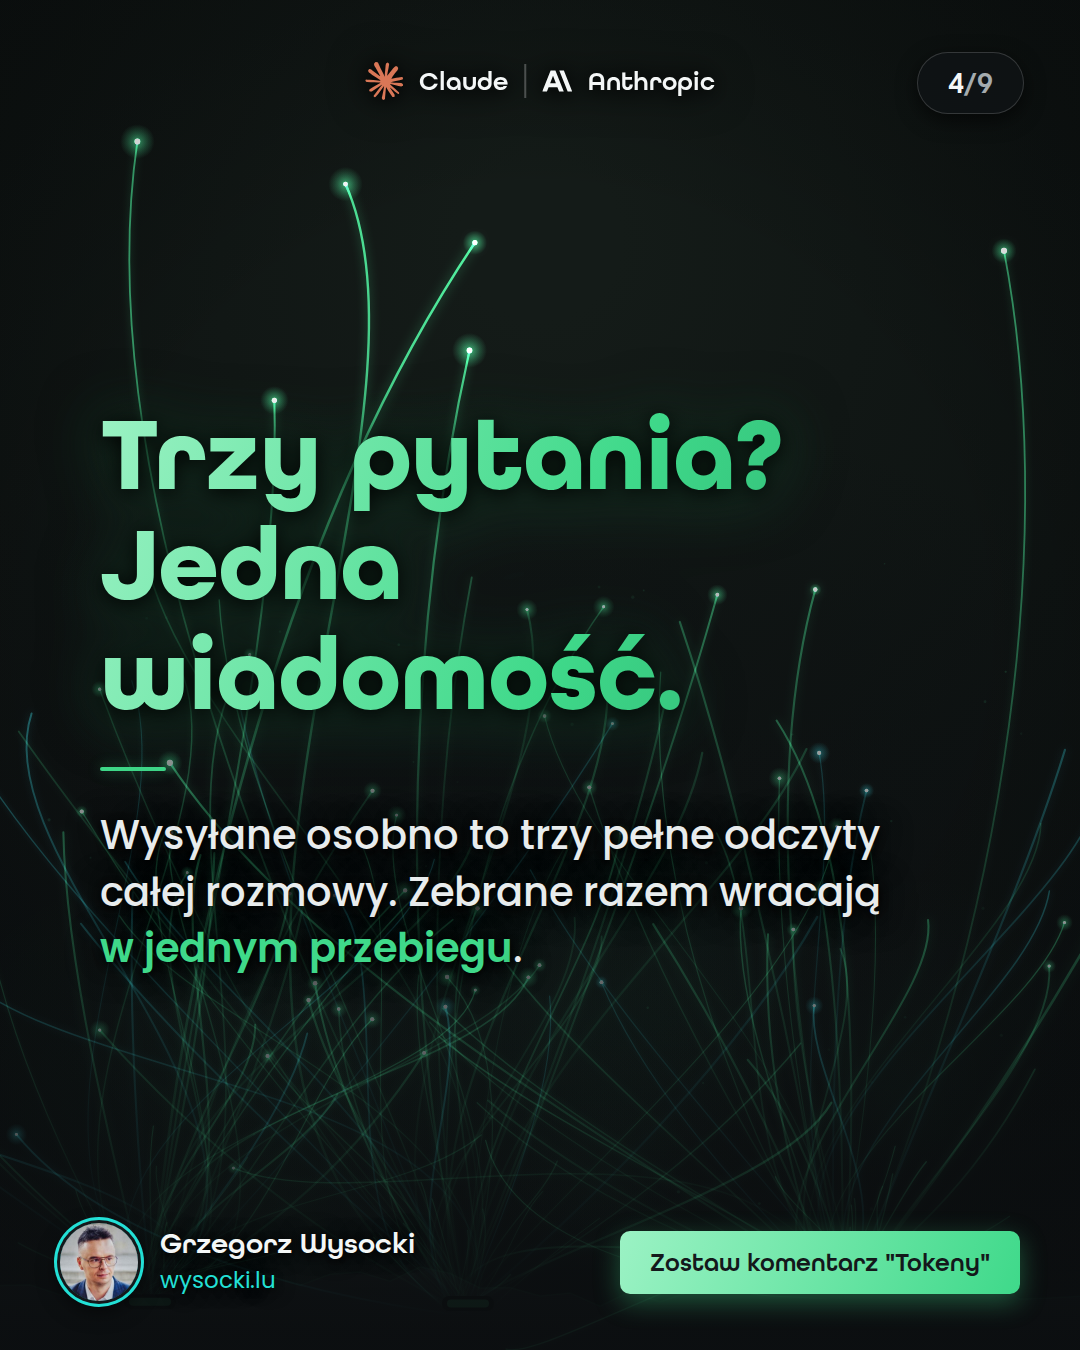
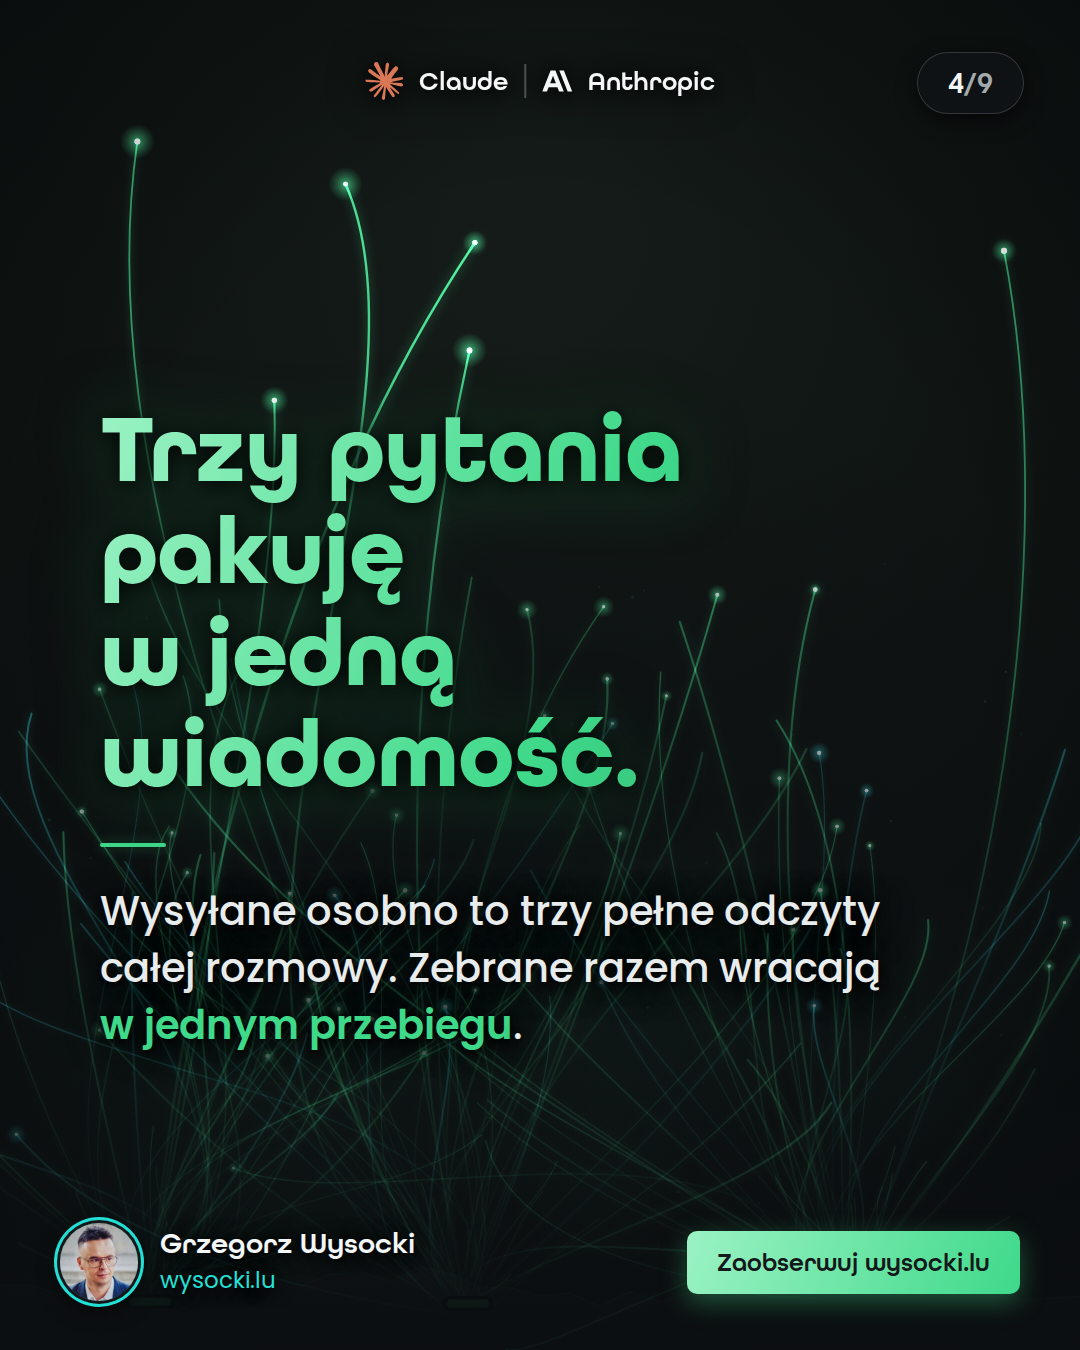
tmp: copy w pierwszej osobie, CTA zaobserwuj
Claude-Session: https://claude.ai/code/session_01VLdxJwrEUDSQYqUjMPfjQ4

Changed region(s): [[0.0917, 0.3111, 0.825, 0.7778], [0.55, 0.9022, 0.9167, 0.9644]]

diff --git a/index.html b/index.html
@@ -36,21 +36,21 @@ h2{font-size:15px;font-weight:600;margin:28px 0 10px;border-left:3px solid #3FD9
   <a class="card" href="out-tk/slajd-tk-s9.png" download><img src="out-tk/slajd-tk-s9.png" alt="Slajd 9 — CTA"><div class="cap"><b>9</b> · CTA</div></a>
 </div>
 <h2>Opis posta</h2>
-<div class="opis" id="opis">Limit w Claude AI znika Ci szybciej, niż powinien? Ta karuzela pokazuje, gdzie naprawdę uciekają tokeny — i jak je zatrzymać. 👇
+<div class="opis" id="opis">Limit w Claude znikał mi szybciej, niż powinien. Rozpracowałem, gdzie naprawdę uciekają tokeny, i tak sobie to poukładałem. 👇
 
-7 poziomów oszczędzania limitu w Claude — od świeżego czatu po tryb jaskiniowca. Te same efekty, mniejsze zużycie. Bez żargonu.
+Mój system to 7 poziomów, od świeżego czatu po tryb jaskiniowca. Te same efekty, mniejsze zużycie.
 
-1⃣ Nowy czat — długa rozmowa czyta się od początku przy każdej odpowiedzi
-2⃣ Edycja — poprawiaj pytanie zamiast dopisywać pod spodem
-3⃣ Paczka — trzy pytania w jednej wiadomości zamiast trzech osobno
-4⃣ Modele — małe zadania oddaj małemu modelowi (Haiku zamiast Opusa)
-5⃣ Projekty — nie wgrywaj w kółko tego samego pliku
-6⃣ Nocna zmiana — limit odnawia się co 5 godzin, ciężkie zlecenia puść na noc
-7⃣ Tryb jaskiniowca — płacisz też za odpowiedzi, tnij lanie wody
+1⃣ Nowy czat. Długa rozmowa czyta się od początku, więc proszę o podsumowanie i zaczynam świeży wątek.
+2⃣ Edycja. Poprawiam swoje pytanie zamiast dopisywać pod spodem.
+3⃣ Paczka. Trzy pytania pakuję w jedną wiadomość.
+4⃣ Modele. Drobiazgi oddaję Haiku, Opusa trzymam do poważnej pracy.
+5⃣ Projekty. Stałe pliki wgrywam raz, do Projektu.
+6⃣ Nocna zmiana. Ciężkie zlecenia puszczam przed snem, rano są zrobione.
+7⃣ Tryb jaskiniowca. Proszę o zwięzłe odpowiedzi, bez lania wody.
 
-Zapisz post 🔖 i testuj jeden poziom dziennie.
+Zapisz sobie ten post 🔖 i sprawdź u siebie.
 
-Napisz w komentarzu „TOKENY”, a prześlę Ci pełną rozpiskę z gotowymi promptami do wklejenia. Za darmo.
+Zaobserwuj mnie po więcej takich ciekawostek o Claude i AI po ludzku. 🟢
 
 #claudeai #claude #anthropic #sztucznainteligencja #aitools #narzedziaai #produktywnosc #aipoludzku</div>
 <button class="kopiuj" onclick="navigator.clipboard.writeText(document.getElementById('opis').innerText).then(()=>{this.textContent='Skopiowano ✓';setTimeout(()=>this.textContent='Kopiuj opis',1600)})">Kopiuj opis</button>

diff --git a/README.md b/README.md
@@ -20,21 +20,21 @@
 ## Opis posta (skopiuj)
 
 ```text
-Limit w Claude AI znika Ci szybciej, niż powinien? Ta karuzela pokazuje, gdzie naprawdę uciekają tokeny — i jak je zatrzymać. 👇
+Limit w Claude znikał mi szybciej, niż powinien. Rozpracowałem, gdzie naprawdę uciekają tokeny, i tak sobie to poukładałem. 👇
 
-7 poziomów oszczędzania limitu w Claude — od świeżego czatu po tryb jaskiniowca. Te same efekty, mniejsze zużycie. Bez żargonu.
+Mój system to 7 poziomów, od świeżego czatu po tryb jaskiniowca. Te same efekty, mniejsze zużycie.
 
-1⃣ Nowy czat — długa rozmowa czyta się od początku przy każdej odpowiedzi
-2⃣ Edycja — poprawiaj pytanie zamiast dopisywać pod spodem
-3⃣ Paczka — trzy pytania w jednej wiadomości zamiast trzech osobno
-4⃣ Modele — małe zadania oddaj małemu modelowi (Haiku zamiast Opusa)
-5⃣ Projekty — nie wgrywaj w kółko tego samego pliku
-6⃣ Nocna zmiana — limit odnawia się co 5 godzin, ciężkie zlecenia puść na noc
-7⃣ Tryb jaskiniowca — płacisz też za odpowiedzi, tnij lanie wody
+1⃣ Nowy czat. Długa rozmowa czyta się od początku, więc proszę o podsumowanie i zaczynam świeży wątek.
+2⃣ Edycja. Poprawiam swoje pytanie zamiast dopisywać pod spodem.
+3⃣ Paczka. Trzy pytania pakuję w jedną wiadomość.
+4⃣ Modele. Drobiazgi oddaję Haiku, Opusa trzymam do poważnej pracy.
+5⃣ Projekty. Stałe pliki wgrywam raz, do Projektu.
+6⃣ Nocna zmiana. Ciężkie zlecenia puszczam przed snem, rano są zrobione.
+7⃣ Tryb jaskiniowca. Proszę o zwięzłe odpowiedzi, bez lania wody.
 
-Zapisz post 🔖 i testuj jeden poziom dziennie.
+Zapisz sobie ten post 🔖 i sprawdź u siebie.
 
-Napisz w komentarzu „TOKENY”, a prześlę Ci pełną rozpiskę z gotowymi promptami do wklejenia. Za darmo.
+Zaobserwuj mnie po więcej takich ciekawostek o Claude i AI po ludzku. 🟢
 
 #claudeai #claude #anthropic #sztucznainteligencja #aitools #narzedziaai #produktywnosc #aipoludzku
 ```
